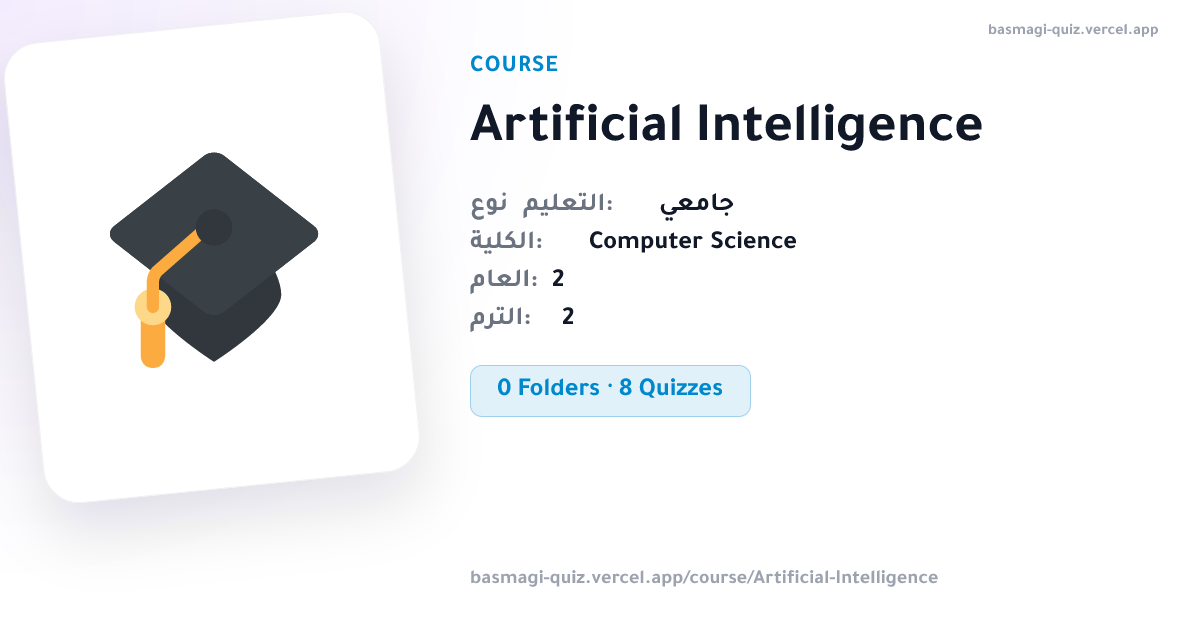
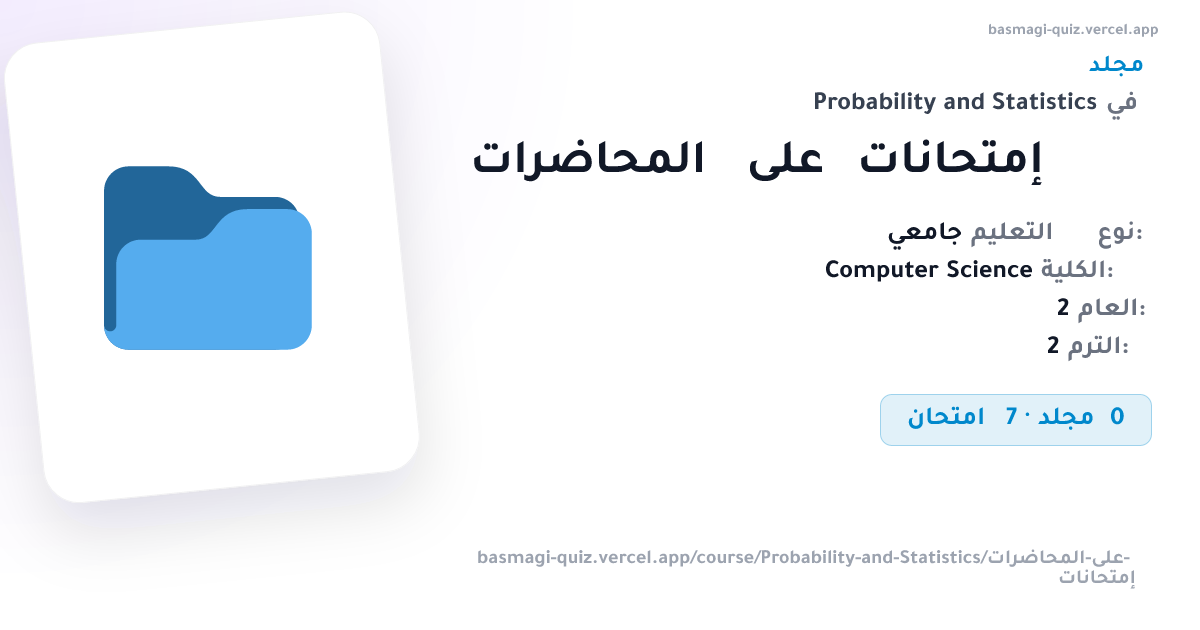
Updated og.js

diff --git a/api/og.js b/api/og.js
@@ -997,6 +997,15 @@ async function renderCourseImage(courseId, folderPath) {
   // as its own labeled line in the info block below, per spec: folder
   // name + parent COURSE's info, not a smashed-together path string.
   const rawTitle = meta ? meta.name : "منصة امتحانات بصمجي";
+  // NOTE: `isArabic` here is used ONLY to decide word-order reversal for a
+  // given text run (per renderBidiText's own doc comment) and text-length
+  // budgets/font sizing — it must NEVER be used to pick which side of the
+  // canvas things are laid out on, or the layout would move around
+  // depending on whatever the current title happens to be (this is
+  // exactly the bug that shipped previously — course-info sometimes on
+  // the left, sometimes the right). This page's overall reading direction
+  // is fixed to RTL — see the static layout below — independent of title
+  // language.
   const isArabic = detectArabic(rawTitle);
   const title = truncateTitle(
     rawTitle,
@@ -1060,66 +1069,115 @@ async function renderCourseImage(courseId, folderPath) {
   const courseSlug = meta
     ? renderBidiSlugSegment(slugify(meta.courseName || meta.name))
     : "";
-  const linkPath =
+  const fullLinkPath =
     folderPath && folderPath.length > 0
       ? `basmagi-quiz.vercel.app/course/${courseSlug}/${folderPath
         .map((seg) => renderBidiSlugSegment(slugify(seg)))
         .join("/")}`
       : `basmagi-quiz.vercel.app/course/${courseSlug}`;
 
+  // Footer link — MUST stay on one line. Long paths used to wrap onto a
+  // second line (ugly, and left a lot of the row's own left-hand space
+  // unused since the text was right/left-anchored instead of filling the
+  // row). Fix: hard single-line + truncate from the FRONT ("…" + tail)
+  // once it's too long to fit, so the most identifying part — the actual
+  // course/folder slug at the end of the path — stays visible instead of
+  // the always-identical "basmagi-quiz.vercel.app/course/" prefix. This
+  // is a plain character-count clamp (no font-metrics call needed here,
+  // unlike the title): the footer uses a small monospace-ish sans size
+  // and a generous character budget is enough to guarantee it never
+  // overflows the fixed-width footer row.
+  const LINK_MAX_CHARS = 64;
+  const linkPath =
+    fullLinkPath.length > LINK_MAX_CHARS
+      ? "…" + fullLinkPath.slice(fullLinkPath.length - (LINK_MAX_CHARS - 1))
+      : fullLinkPath;
+
   const contentWidth = COURSE_CONTENT.right - COURSE_CONTENT.left;
 
-  /**
-   * Builds one course-info row as TWO separate flex children (label,
-   * value), mirrored via `flexDirection: row-reverse` for Arabic rather
-   * than pre-joining "label: value" into one string — a label/value pair
-   * is structurally a two-item list, not a sentence, so its two sides are
-   * positioned via flex order exactly like other label+content rows in
-   * this file (e.g. the parent-course line), each side showing its own
-   * text with no cross-side word manipulation.
-   *
-   * IMPORTANT: this does NOT mean the label's own text is safe to render
-   * untouched. Satori does not run the Unicode Bidi Algorithm (see
-   * renderBidiText's doc comment) — it paints a text node's
-   * space-separated words in raw storage order regardless of `direction`.
-   * A one-word label like "الكلية" only has one token, so storage order
-   * and visual order are trivially the same and it happened to render
-   * fine. A two-plus-word label like "نوع التعليم" does NOT get this
-   * lucky: without reordering, it paints as "التعليم نوع" with the
-   * trailing ":" fused onto the wrong word (this shipped as a real bug —
-   * screenshots showed rows like "التعليم:نوع جامعي"). So the label goes
-   * through renderBidiText() same as any other multi-word Arabic string;
-   * the value does not, since values are frequently Latin (e.g. "Computer
-   * Science") or a single Arabic word, and reversing a Latin value's word
-   * order would itself be a bug.
-   */
-  function buildInfoRowChildren(row) {
+  // ── Course-info TABLE ────────────────────────────────────────────────
+  // Per spec: this is a table, not a pair of independently-mirrorable
+  // flex rows. Keys always sit on the right and read RTL; values always
+  // sit on the left and read LTR — even when the value itself is Arabic
+  // text (e.g. "Computer Science" vs. "نظم معلومات") — because a
+  // consistent two-column grid reads better than a layout that
+  // reorders itself per-row based on each value's own script. The whole
+  // table is a fixed-position, fixed-width block (see COURSE_INFO_TABLE
+  // geometry below) so its position on the canvas never moves, no matter
+  // what the title or values are — this directly fixes the "info block
+  // moves left/right depending on the quiz title" bug.
+  function buildInfoTable(rows) {
     return {
       type: "div",
       props: {
         style: {
           display: "flex",
-          flexDirection: isArabic ? "row-reverse" : "row",
-          alignItems: "baseline",
-          gap: "8px",
+          flexDirection: "column",
+          width: "100%",
+          border: "1px solid rgba(15,23,42,0.10)",
+          borderRadius: "16px",
+          overflow: "hidden",
           direction: "ltr",
         },
-        children: [
-          {
-            type: "div",
-            props: {
-              style: { display: "flex", color: "#6b7280", fontWeight: "400" },
-              children: `${renderBidiText(row.label, isArabic)}:`,
+        children: rows.map((row, i) => ({
+          type: "div",
+          props: {
+            style: {
+              display: "flex",
+              flexDirection: "row",
+              width: "100%",
+              borderTop: i === 0 ? "none" : "1px solid rgba(15,23,42,0.08)",
+              background: i % 2 === 1 ? "rgba(15,23,42,0.02)" : "transparent",
             },
+            children: [
+              // Key column — always the RIGHT side, always RTL-aligned
+              // text, regardless of the value's script.
+              {
+                type: "div",
+                props: {
+                  style: {
+                    display: "flex",
+                    order: 2,
+                    flex: "0 0 46%",
+                    justifyContent: "flex-end",
+                    alignItems: "center",
+                    padding: "14px 22px",
+                    color: "#6b7280",
+                    fontWeight: "400",
+                    fontSize: "24px",
+                    direction: "ltr", // text itself is pre-reordered below
+                  },
+                  // Multi-word Arabic labels need word-order reversal
+                  // (see renderBidiText's doc comment) — single-word or
+                  // Latin labels pass through unchanged.
+                  children: renderBidiText(row.label, detectArabic(row.label)),
+                },
+              },
+              // Value column — always the LEFT side, always LTR-aligned,
+              // even for an Arabic value — this is the "even if they are
+              // Arabic, tables look better this way" rule from the brief.
+              {
+                type: "div",
+                props: {
+                  style: {
+                    display: "flex",
+                    order: 1,
+                    flex: "1 1 54%",
+                    justifyContent: "flex-start",
+                    alignItems: "center",
+                    padding: "14px 22px",
+                    color: "#111827",
+                    fontWeight: "700",
+                    fontSize: "24px",
+                    borderRight: "1px solid rgba(15,23,42,0.08)",
+                    direction: "ltr",
+                  },
+                  children: String(row.val),
+                },
+              },
+            ],
           },
-          {
-            type: "div",
-            props: {
-              style: { display: "flex", color: "#111827", fontWeight: "700" },
-              children: String(row.val),
-            },
-          },
-        ],
+        })),
       },
     };
   }
@@ -1215,8 +1273,13 @@ async function renderCourseImage(courseId, folderPath) {
               bottom: `${630 - COURSE_CONTENT.bottom}px`,
               width: `${contentWidth}px`,
               direction: "ltr",
-              alignItems: isArabic ? "flex-end" : "flex-start",
-              textAlign: isArabic ? "right" : "left",
+              // FIXED regardless of title/value language — this column's
+              // side never moves based on what text happens to be in it
+              // (see the isArabic doc comment above renderCourseImage's
+              // title logic for why). The product itself is Arabic-first,
+              // so the column is always right-aligned/RTL-reading.
+              alignItems: "flex-end",
+              textAlign: "right",
             },
             children: [
               // ── Header block (kind label, parent line, title, info
@@ -1229,7 +1292,7 @@ async function renderCourseImage(courseId, folderPath) {
                   style: {
                     display: "flex",
                     flexDirection: "column",
-                    alignItems: isArabic ? "flex-end" : "flex-start",
+                    alignItems: "flex-end",
                     width: "100%",
                   },
                   children: [
@@ -1258,7 +1321,7 @@ async function renderCourseImage(courseId, folderPath) {
                         props: {
                           style: {
                             display: "flex",
-                            flexDirection: isArabic ? "row-reverse" : "row",
+                            flexDirection: "row-reverse",
                             marginTop: "12px",
                             fontSize: "26px",
                             color: "#6b7280",
@@ -1269,7 +1332,7 @@ async function renderCourseImage(courseId, folderPath) {
                           children: [
                             {
                               type: "div",
-                              props: { style: { display: "flex" }, children: isArabic ? "في" : "in" },
+                              props: { style: { display: "flex" }, children: "في" },
                             },
                             {
                               type: "div",
@@ -1317,12 +1380,10 @@ async function renderCourseImage(courseId, folderPath) {
                           style: {
                             display: "flex",
                             flexDirection: "column",
-                            alignItems: isArabic ? "flex-end" : "flex-start",
+                            width: "100%",
                             marginTop: "28px",
-                            gap: "12px",
-                            fontSize: "26px",
                           },
-                          children: infoRows.map(buildInfoRowChildren),
+                          children: [buildInfoTable(infoRows)],
                         },
                       }
                       : null,
@@ -1344,7 +1405,7 @@ async function renderCourseImage(courseId, folderPath) {
                         props: {
                           style: {
                             display: "flex",
-                            flexDirection: isArabic ? "row-reverse" : "row",
+                            flexDirection: "row-reverse",
                             marginTop: "32px",
                             alignItems: "center",
                             gap: "8px",
@@ -1369,17 +1430,26 @@ async function renderCourseImage(courseId, folderPath) {
               },
 
               // ── Link footer — pinned to the bottom of the card by the
-              // space-between on the parent column, per request (was
-              // previously right under the info rows, floating in the
-              // middle of a lot of empty space below it). ────────────────
+              // space-between on the parent column. MUST render as a
+              // single line: `whiteSpace: nowrap` + `overflow: hidden`
+              // stop the wasteful/ugly two-line wrap the old version hit
+              // on long paths, and `width: 100%` + `justifyContent:
+              // flex-end` push the (now front-truncated, see linkPath's
+              // own comment) text flush to the right edge of the content
+              // column so it uses the same static right edge as every
+              // other row instead of drifting based on text length. ─────
               {
                 type: "div",
                 props: {
                   style: {
                     display: "flex",
+                    width: "100%",
+                    justifyContent: "flex-end",
                     fontSize: "20px",
                     color: "#9ca3af",
                     fontWeight: "400",
+                    whiteSpace: "nowrap",
+                    overflow: "hidden",
                     direction: "ltr",
                   },
                   children: linkPath,

diff --git a/public/service-worker.js b/public/service-worker.js
@@ -1,6 +1,6 @@
 // Service Worker for Basmagi Quiz Platform
 
-const CACHE_VERSION = "basmagi-v8.2.3";
+const CACHE_VERSION = "basmagi-v8.2.4";
 const OFFLINE_CACHE = `${CACHE_VERSION}-offline`;
 const OFFLINE_URL = "/offline.html";
 const OFFLINE_ASSETS = [OFFLINE_URL, "/favicon.png"];

diff --git a/public/privacy-policy.html b/public/privacy-policy.html
@@ -86,7 +86,7 @@
         <h1>سياسة الخصوصية</h1>
         <div class="doc-meta">
           <span>آخر تحديث: 14 يونيو 2026</span>
-          <span>الإصدار v8.2.3</span>
+          <span>الإصدار v8.2.4</span>
         </div>
       </header>
 

diff --git a/public/terms-of-service.html b/public/terms-of-service.html
@@ -87,7 +87,7 @@
         <h1>شروط الخدمة</h1>
         <div class="doc-meta">
           <span>آخر تحديث: 14 يونيو 2026</span>
-          <span>الإصدار v8.2.3</span>
+          <span>الإصدار v8.2.4</span>
         </div>
       </header>
 

diff --git a/public/src/shared/console-core.js b/public/src/shared/console-core.js
@@ -166,7 +166,7 @@
   }
 
   // This should dynamically pull the version from the service-worker, or from the package.json if possible.
-  const BUILD_TAG = "core@8.2.3";
+  const BUILD_TAG = "core@8.2.4";
 
   function printHelp() {
     log.rule("═", 64);

diff --git a/docs/issues.md b/docs/issues.md
@@ -9,14 +9,15 @@ Issues in here have to be studies and tested well, then turned into a plan, befo
 
 ### Courses & Folders OG Images
 - Don't show the info correctly: 
-  - ![Course with Arabic info not formatted well](image-7.png)
-  - ![Folder with messed up Arabic](image-8.png)
-  
-#### After the last update
+  - ![Course with Arabic info not formatted well](image.png)
+  - ![Folder with messed up Arabic](image-7.png)
+
+#### Suggestions
 - Similar issues remain. Here are suggestions:
   - For long URLs (that get displayed at the bottom): Make sure they aren't being displayed on 2 lines because that looks ugly, specially when there are so much space on the left of the link that is not being used, so make sure that space is being used, push it to the left when it gets long, you can use other strateiges too.
   - For the course / folder info:
     - They sometimes get displayed on the left, other times on the right, based on the title of the quiz. They should always be displayed in a static place that doesn't move, and they should be displayed as a table, where the keys are on the right and RTL, and the values are on the left and LTR (even if they are Arabic, tables look better this way.)
+  - Direction of elements / labels shouldn't change based on the Title of the quiz because that seems to mess up alot of stuff
 
 ### Move-To Dialog Guide Overhaul
 - The `.move-to-dialog-guide` system to tell the users the folder structure is not perfect, because `.move-to-dialog-rail` aren't connected toghether (they are visually different pieces).

diff --git a/CHANGELOG.md b/CHANGELOG.md
@@ -7,6 +7,10 @@ and this project adheres to [Semantic Versioning](https://semver.org/spec/v2.0.0
 
 ---
 
+## [8.2.4] - 2026-9-9
+
+### Updated og.js
+
 ## [8.2.3] - 2026-9-9
 
 ### Fixed Og Images for folders and courses
